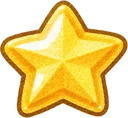
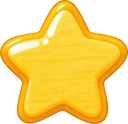
ナチュラル：星画像を新デザインに差し替え、ステージ選択タイルを共通の枠画像に（マッチ棒・ステージ制の3ゲーム）
Claude-Session: https://claude.ai/code/session_01C8PtLCLrCZA399Ryqnq6qb

diff --git a/fit.js b/fit.js
@@ -197,3 +197,17 @@
   }
   if(document.readyState==='loading') addEventListener('DOMContentLoaded',init); else init();
 })();
+
+/* ステージ選択タイルの共通デザイン（ナチュラル）：枠画像＋番号＋星 */
+(function(){
+  var b=new URL('img/natural/',document.currentScript.src).href;
+  var st=document.createElement('style');
+  st.textContent='body[data-vt=natural] .qg{gap:8px}'
+   +'body[data-vt=natural] .qg button{aspect-ratio:1/1;border:0!important;border-radius:0!important;padding:0!important;gap:0!important;flex-direction:column;align-items:center;justify-content:center;color:#6b3f17!important;font-size:clamp(14px,4.6vw,19px)!important;font-weight:900;line-height:1.1;background:url('+b+'stg_frame.webp) center/100% 100% no-repeat!important;box-shadow:none}'
+   +'body[data-vt=natural] .qg button.ok{background-image:url('+b+'stg_frame_clear.webp)!important;color:#2f5a1f!important}'
+   +'body[data-vt=natural] .qg button.lk{opacity:.55;filter:grayscale(.6)}'
+   +'body[data-vt=natural] .qg button.cur{box-shadow:0 0 0 3px #f0b429!important;border-radius:16px!important}'
+   +'body[data-vt=natural] .qg button small{display:none;font-size:0;line-height:0;margin-top:1px}body[data-vt=natural] .qg button small:has(.gcs){display:block}'
+   +'body[data-vt=natural] .qg button .gcs{width:15px;height:15px;margin:0 0}';
+  document.head.appendChild(st);
+})();

diff --git a/match/index.html b/match/index.html
@@ -467,7 +467,7 @@ function lvs(){ const el=$('lvs'); el.innerHTML=QS().map((_,i)=>{ const u=unlock
   el.querySelectorAll('button').forEach(b=>b.onclick=()=>{ const i=+b.dataset.i; if(!unlocked(P.k,i)){toast('前の問題をクリアするとあくよ');return} actx();SFX.tap();load(i); });
   const on=el.querySelector('.on'); if(on) on.scrollIntoView({inline:'center',block:'nearest'}); }
 function listM(k){ lvRow($('lkRow'),['1本','2本','3本'],+k-1,null,j=>listM(String(j+1)));
-  const qs=Q[k]; $('qg').innerHTML=qs.map((q,i)=>{ const u=unlocked(k,i),d=isDone(k,i); return `<button data-i="${i}" class="${d?'ok':''} ${!u?'lk':''} ${k===P.k&&i===P.cur?'cur':''}">${!u?'🔒':d?'★':'・'}${i+1}<small>${u?q:'？'}</small></button>`; }).join('');
+  const qs=Q[k]; $('qg').innerHTML=qs.map((q,i)=>{ const u=unlocked(k,i),d=isDone(k,i); return `<button data-i="${i}" class="${d?'ok':''} ${!u?'lk':''} ${k===P.k&&i===P.cur?'cur':''}">${!u?'🔒':''}${i+1}<small>${d?'★':(u?q:'？')}</small></button>`; }).join('');
   $('qg').querySelectorAll('button').forEach(b=>b.onclick=()=>{ const i=+b.dataset.i; if(!unlocked(k,i)){toast('前の問題をクリアするとあくよ');return} actx();SFX.tap(); closeM('mList'); P.k=k; kRow(); load(i); }); }
 $('bList').onclick=()=>{actx();SFX.tap();listM(P.k);openM('mList')};
 if(!unlocked(P.k,P.cur)) P.cur=0;

diff --git a/stars.js b/stars.js
@@ -3,8 +3,8 @@
   var base=new URL('img/ui/',document.currentScript.src).href;
   var st=document.createElement('style');
   st.textContent='.gcs{display:inline-block;width:1.2em;height:1.2em;vertical-align:-.22em;background:center/contain no-repeat;margin:0 .03em;font-style:normal;flex:none}'
-   +['natural:n','retro:r','neon:x'].map(function(p){var a=p.split(':');return 'body[data-vt='+a[0]+'] .gcs.on{background-image:url('+base+'star_'+a[1]+'.webp)}body[data-vt='+a[0]+'] .gcs.off{background-image:url('+base+'star_'+a[1]+'0.webp)}';}).join('')
-   +'body:not([data-vt]) .gcs.on{background-image:url('+base+'star_n.webp)}body:not([data-vt]) .gcs.off{background-image:url('+base+'star_n0.webp)}';
+   +['natural:n','retro:r','neon:x'].map(function(p){var a=p.split(':');return 'body[data-vt='+a[0]+'] .gcs.on{background-image:url('+base+'star_'+a[1]+'.webp?v=2)}body[data-vt='+a[0]+'] .gcs.off{background-image:url('+base+'star_'+a[1]+'0.webp?v=2)}';}).join('')
+   +'body:not([data-vt]) .gcs.on{background-image:url('+base+'star_n.webp?v=2)}body:not([data-vt]) .gcs.off{background-image:url('+base+'star_n0.webp?v=2)}';
   document.head.appendChild(st);
   var HAS=/[★☆]/, SKIP={SCRIPT:1,STYLE:1,TEXTAREA:1,INPUT:1,OPTION:1,TITLE:1,NOSCRIPT:1};
   function conv(tn){

diff --git a/sw.js b/sw.js
@@ -1,5 +1,5 @@
 // オフライン対応（ページは最新を優先、画像などはキャッシュを優先）
-const V='gc-v302';
+const V='gc-v304';
 const CORE=['./','index.html','coins.js','backup.js','manifest.webmanifest','icons/icon-192.png',
  ...['reversi','shogi','wanko','gomoku','memory','escape','rings','peg','slide','hanoi'].map(g=>g+'/')];
 self.addEventListener('install',e=>{e.waitUntil(caches.open(V).then(c=>c.addAll(CORE)).then(()=>self.skipWaiting()))});
